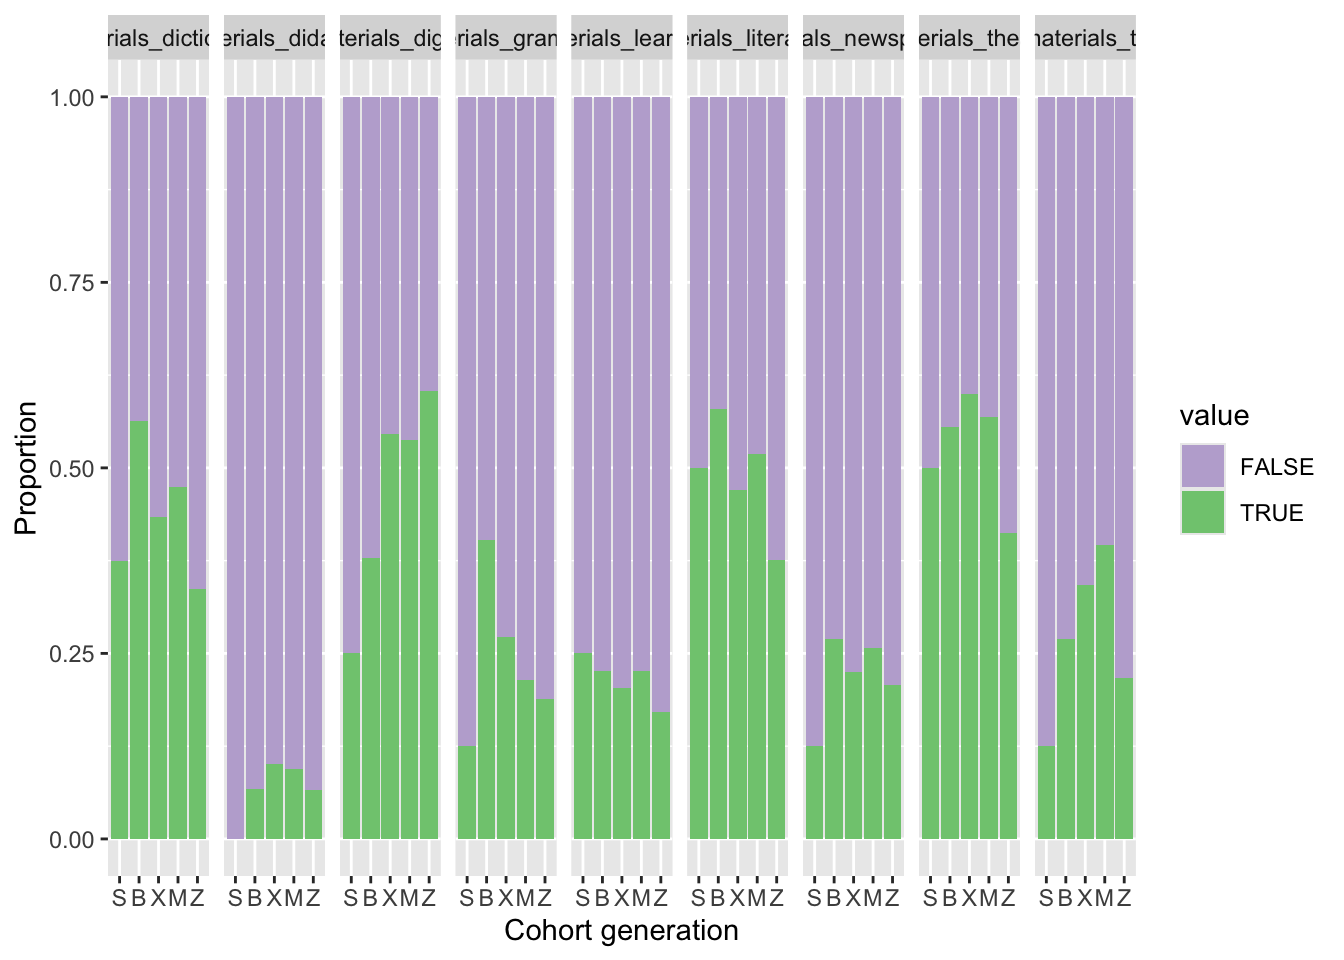
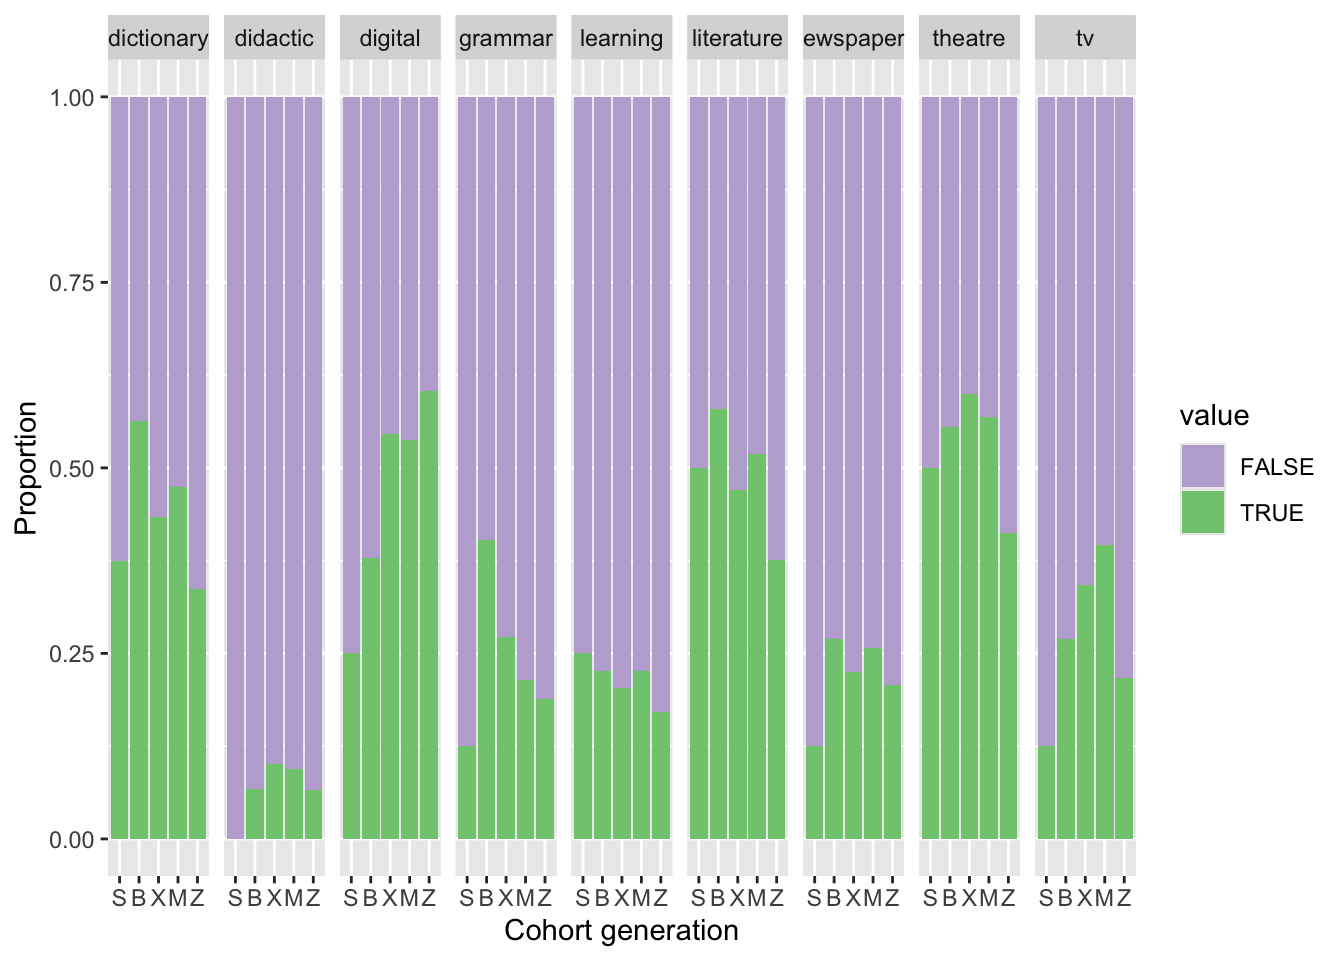
update vitality

Changed region(s): [[0.0625, 0.0312, 0.8438, 0.0625]]

diff --git a/code/04_vitality.html b/code/04_vitality.html
@@ -1039,14 +1039,15 @@ dbl (5): pop, area, pop_density, comuni_n, provinces_n
 </div>
 <div class="cell">
 <div class="sourceCode cell-code" id="cb60"><pre class="sourceCode r code-with-copy"><code class="sourceCode r"><span id="cb60-1"><a href="#cb60-1" aria-hidden="true" tabindex="-1"></a>materials <span class="sc">|&gt;</span></span>
-<span id="cb60-2"><a href="#cb60-2" aria-hidden="true" tabindex="-1"></a>  <span class="fu">ggplot</span>(<span class="fu">aes</span>(generation, <span class="at">fill =</span> value)) <span class="sc">+</span></span>
-<span id="cb60-3"><a href="#cb60-3" aria-hidden="true" tabindex="-1"></a>  <span class="fu">geom_bar</span>(<span class="at">position =</span> <span class="st">"fill"</span>) <span class="sc">+</span></span>
-<span id="cb60-4"><a href="#cb60-4" aria-hidden="true" tabindex="-1"></a>  <span class="fu">facet_wrap</span>(<span class="sc">~</span>materials, <span class="at">ncol =</span> <span class="dv">10</span>) <span class="sc">+</span></span>
-<span id="cb60-5"><a href="#cb60-5" aria-hidden="true" tabindex="-1"></a>  <span class="fu">scale_x_discrete</span>(<span class="at">labels =</span> <span class="fu">c</span>(<span class="st">"S"</span>, <span class="st">"B"</span>, <span class="st">"X"</span>, <span class="st">"M"</span>, <span class="st">"Z"</span>)) <span class="sc">+</span></span>
-<span id="cb60-6"><a href="#cb60-6" aria-hidden="true" tabindex="-1"></a>  <span class="fu">scale_fill_brewer</span>(<span class="at">type =</span> <span class="st">"qual"</span>, <span class="at">direction =</span> <span class="sc">-</span><span class="dv">1</span>) <span class="sc">+</span></span>
-<span id="cb60-7"><a href="#cb60-7" aria-hidden="true" tabindex="-1"></a>  <span class="fu">labs</span>(</span>
-<span id="cb60-8"><a href="#cb60-8" aria-hidden="true" tabindex="-1"></a>    <span class="at">x =</span> <span class="st">"Cohort generation"</span>, <span class="at">y =</span> <span class="st">"Proportion"</span></span>
-<span id="cb60-9"><a href="#cb60-9" aria-hidden="true" tabindex="-1"></a>  )</span></code><button title="Copy to Clipboard" class="code-copy-button"><i class="bi"></i></button></pre></div>
+<span id="cb60-2"><a href="#cb60-2" aria-hidden="true" tabindex="-1"></a>  <span class="fu">mutate</span>(<span class="at">materials =</span> <span class="fu">str_remove</span>(materials, <span class="st">"materials_"</span>)) <span class="sc">|&gt;</span> </span>
+<span id="cb60-3"><a href="#cb60-3" aria-hidden="true" tabindex="-1"></a>  <span class="fu">ggplot</span>(<span class="fu">aes</span>(generation, <span class="at">fill =</span> value)) <span class="sc">+</span></span>
+<span id="cb60-4"><a href="#cb60-4" aria-hidden="true" tabindex="-1"></a>  <span class="fu">geom_bar</span>(<span class="at">position =</span> <span class="st">"fill"</span>) <span class="sc">+</span></span>
+<span id="cb60-5"><a href="#cb60-5" aria-hidden="true" tabindex="-1"></a>  <span class="fu">facet_wrap</span>(<span class="sc">~</span>materials, <span class="at">ncol =</span> <span class="dv">10</span>) <span class="sc">+</span></span>
+<span id="cb60-6"><a href="#cb60-6" aria-hidden="true" tabindex="-1"></a>  <span class="fu">scale_x_discrete</span>(<span class="at">labels =</span> <span class="fu">c</span>(<span class="st">"S"</span>, <span class="st">"B"</span>, <span class="st">"X"</span>, <span class="st">"M"</span>, <span class="st">"Z"</span>)) <span class="sc">+</span></span>
+<span id="cb60-7"><a href="#cb60-7" aria-hidden="true" tabindex="-1"></a>  <span class="fu">scale_fill_brewer</span>(<span class="at">type =</span> <span class="st">"qual"</span>, <span class="at">direction =</span> <span class="sc">-</span><span class="dv">1</span>) <span class="sc">+</span></span>
+<span id="cb60-8"><a href="#cb60-8" aria-hidden="true" tabindex="-1"></a>  <span class="fu">labs</span>(</span>
+<span id="cb60-9"><a href="#cb60-9" aria-hidden="true" tabindex="-1"></a>    <span class="at">x =</span> <span class="st">"Cohort generation"</span>, <span class="at">y =</span> <span class="st">"Proportion"</span></span>
+<span id="cb60-10"><a href="#cb60-10" aria-hidden="true" tabindex="-1"></a>  )</span></code><button title="Copy to Clipboard" class="code-copy-button"><i class="bi"></i></button></pre></div>
 <div class="cell-output-display">
 <div>
 <figure class="figure">
